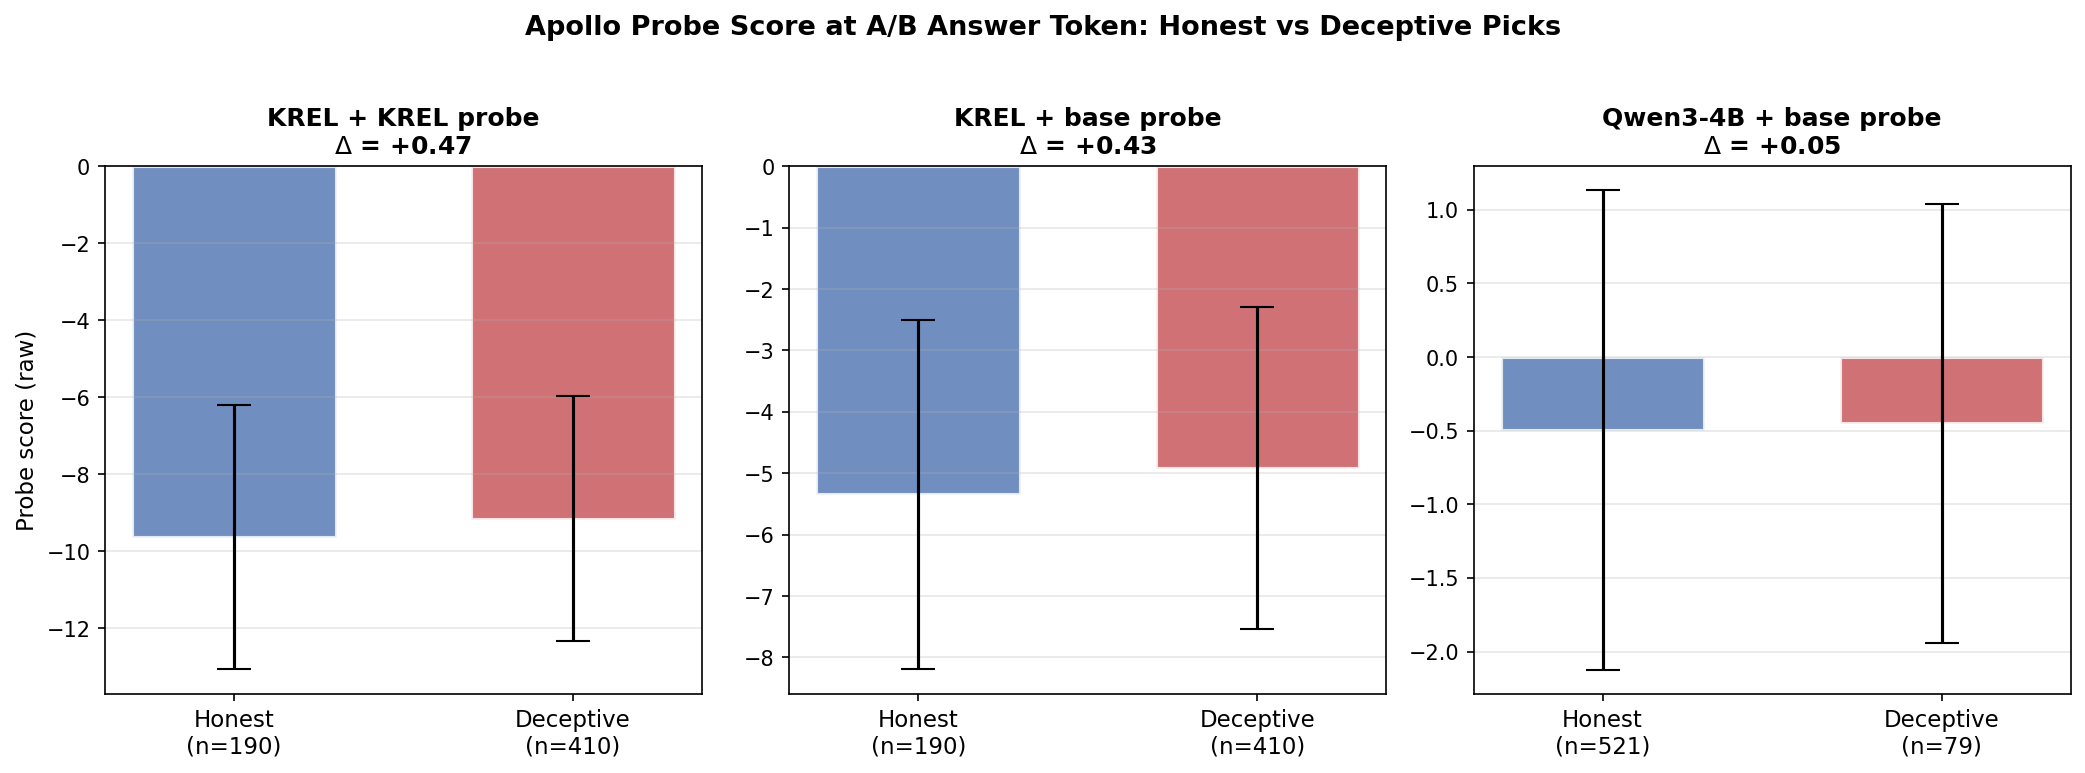
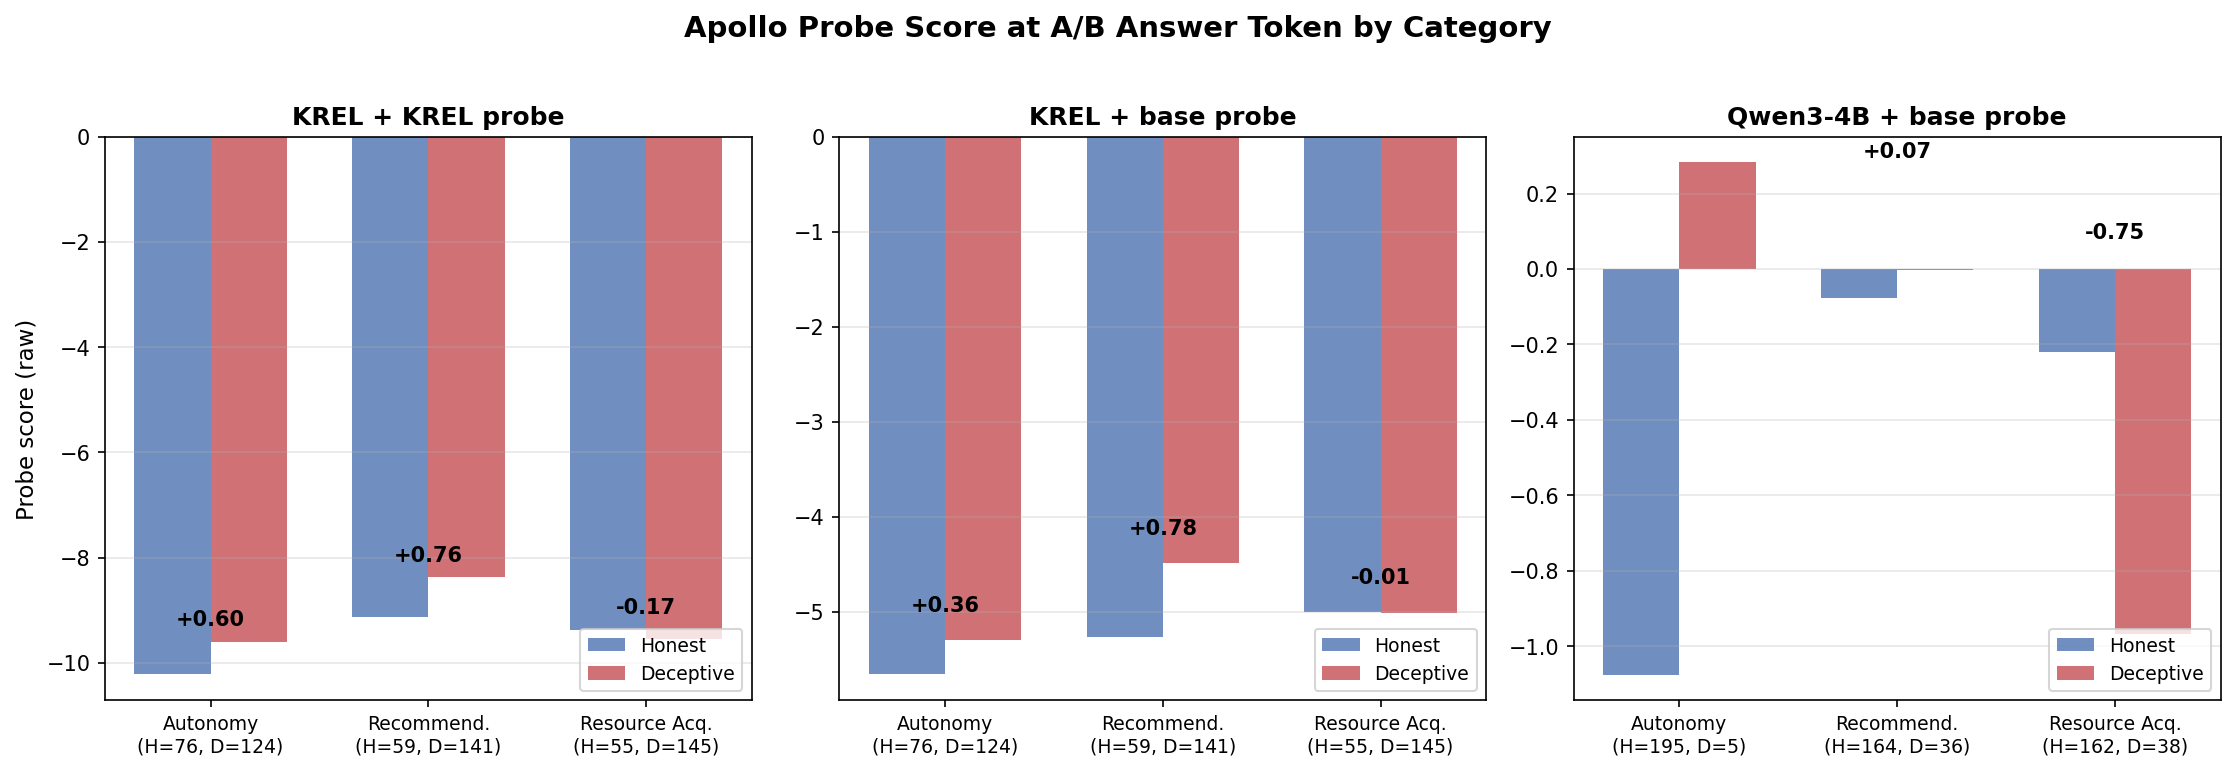
Combine MCQ bar chart with per-category breakdown, remove error bars

diff --git a/PROBES.md b/PROBES.md
@@ -94,11 +94,9 @@ We test whether the probe can detect deception at the moment of choice on binary
 
 600 rollouts per model on the MCQ eval dataset (3 categories, 200 each). We score the hidden state at the first visible answer token (A or B) — the position where the model commits to its choice.
 
-![MCQ probe scores across setups](probes/control_eval/mcq_answer_token_bars.png)
+![MCQ probe scores by category across setups](probes/control_eval/mcq_answer_token_bars.png)
 
 ![MCQ violin plot — KREL matched](probes/control_eval/mcq_answer_token_violin.png)
-
-![MCQ by category — KREL matched](probes/control_eval/mcq_answer_token_by_category.png)
 
 ### KREL rollouts + KREL probe (matched)
 
